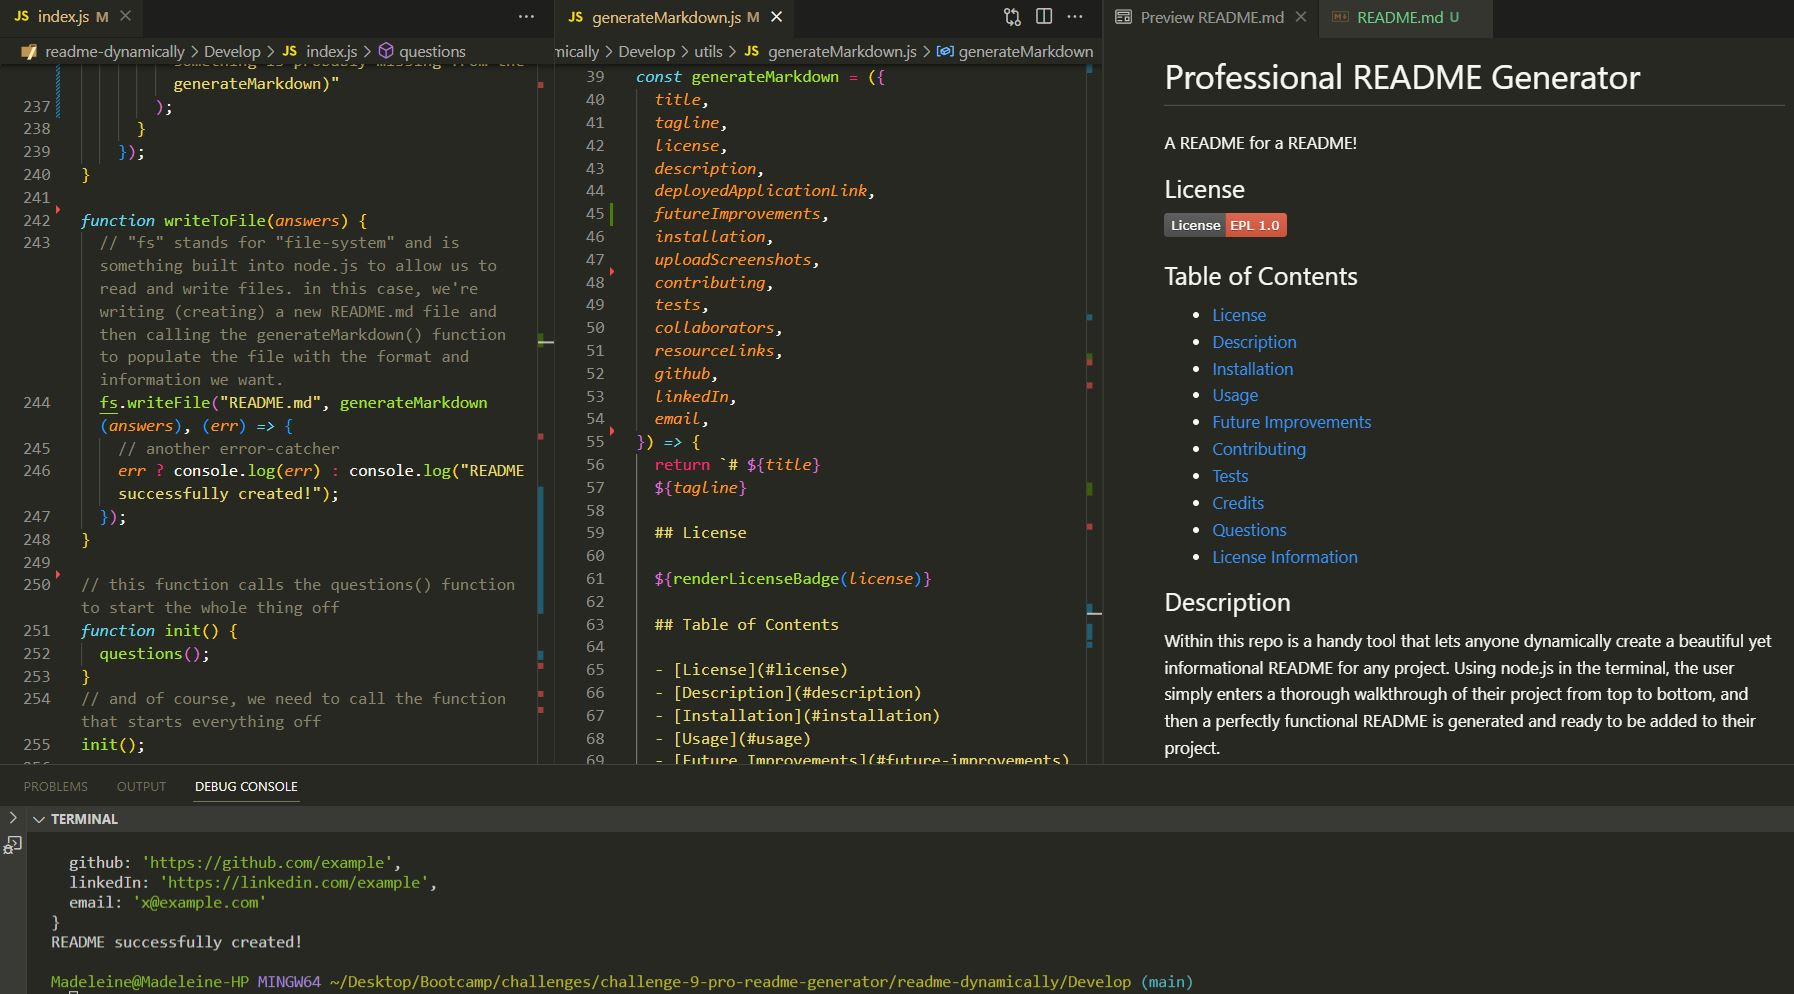
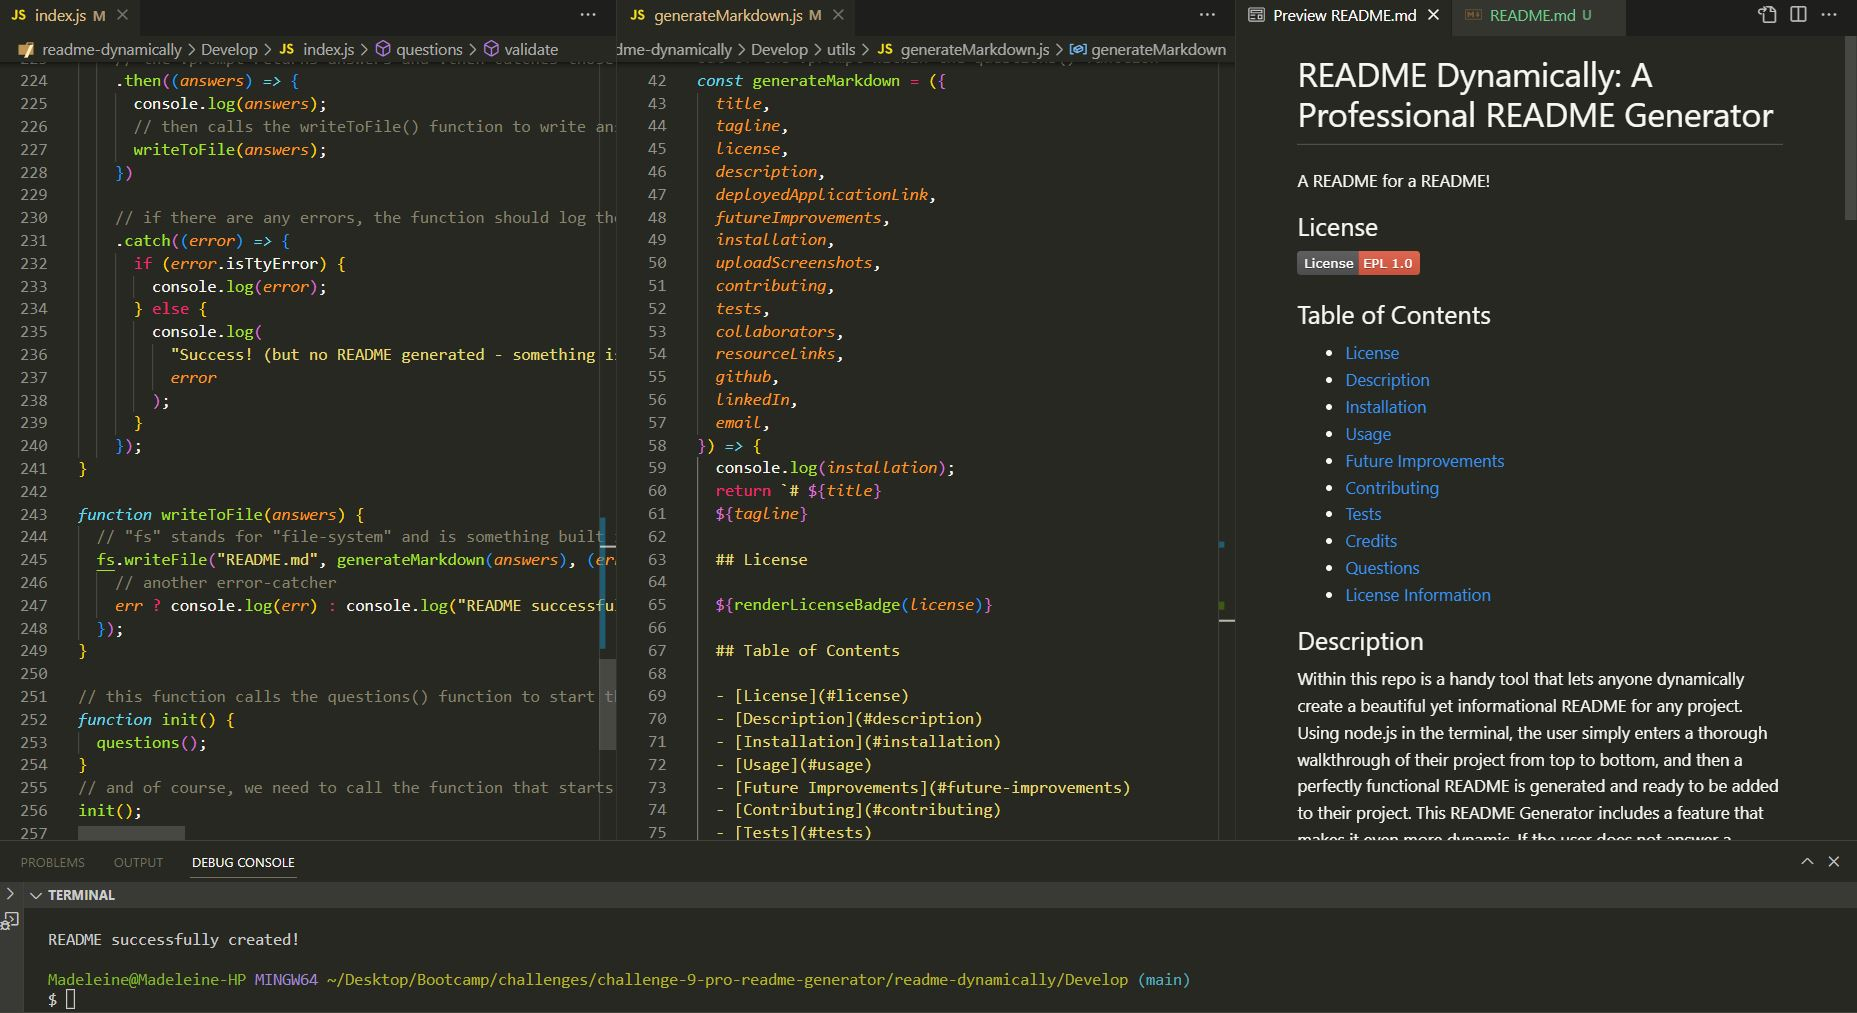
dynamic table of contents: applied the same dynamic feature that I applied to the section headings to the table of contents - when a user does not enter an answer to a question, that section and its corresponding table of contents link is omitted (for certain sections only)

diff --git a/Develop/index.js b/Develop/index.js
@@ -168,55 +168,55 @@ function questions() {
         name: "resourceLinks",
       },
       // returns links to resources or tutorials in README
-      // {
-      //   type: "input",
-      //   message:
-      //     "What is your Github URL? Paste it here. (Be sure to include the URL's scheme and subdomain as well as domain (https://github.com/)",
-      //   name: "github",
-      //   validate: function (github) {
-      //     // Regex validation
-      //     if (/^(ftp|http|https):\/\/[^ "]+$/.test(github) === true) {
-      //       return /^(ftp|http|https):\/\/[^ "]+$/.test(github);
-      //     } else {
-      //       return console.log(" Please enter a valid Github URL.");
-      //     }
-      //   },
-      // },
-      // // validates the user entered a Github URL, then returns the user's Github URL in README
-      // {
-      //   type: "input",
-      //   message:
-      //     "What is your LinkedIn URL? Paste it here. (Be sure to include the URL's scheme and subdomain as well as domain (https://linkedin.com/)",
-      //   name: "linkedIn",
-      //   validate: function (linkedIn) {
-      //     // Regex validation
-      //     if (/^(ftp|http|https):\/\/[^ "]+$/.test(linkedIn) === true) {
-      //       return /^(ftp|http|https):\/\/[^ "]+$/.test(linkedIn);
-      //     } else {
-      //       return console.log(" Please enter a valid LinkedIn URL.");
-      //     }
-      //   },
-      // },
-      // // validates the user entered a LinkedIn URL, then returns the user's linkedin URL in README
-      // {
-      //   type: "input",
-      //   message: "What is your email?",
-      //   name: "email",
-      //   validate: function (email) {
-      //     // Regex validation
-      //     if (
-      //       /^(([^<>()\[\]\.,;:\s@\"]+(\.[^<>()\[\]\.,;:\s@\"]+)*)|(\".+\"))@(([^<>()\.,;\s@\"]+\.{0,1})+([^<>()\.,;:\s@\"]{2,}|[\d\.]+))$/.test(
-      //         email
-      //       ) === true
-      //     ) {
-      //       return /^(([^<>()\[\]\.,;:\s@\"]+(\.[^<>()\[\]\.,;:\s@\"]+)*)|(\".+\"))@(([^<>()\.,;\s@\"]+\.{0,1})+([^<>()\.,;:\s@\"]{2,}|[\d\.]+))$/.test(
-      //         email
-      //       );
-      //     } else {
-      //       return console.log(" Please enter a valid email.");
-      //     }
-      //   },
-      // },
+      {
+        type: "input",
+        message:
+          "What is your Github URL? Paste it here. (Be sure to include the URL's scheme and subdomain as well as domain (https://github.com/)",
+        name: "github",
+        validate: function (github) {
+          // Regex validation
+          if (/^(ftp|http|https):\/\/[^ "]+$/.test(github) === true) {
+            return /^(ftp|http|https):\/\/[^ "]+$/.test(github);
+          } else {
+            return console.log(" Please enter a valid Github URL.");
+          }
+        },
+      },
+      // validates the user entered a Github URL, then returns the user's Github URL in README
+      {
+        type: "input",
+        message:
+          "What is your LinkedIn URL? Paste it here. (Be sure to include the URL's scheme and subdomain as well as domain (https://linkedin.com/)",
+        name: "linkedIn",
+        validate: function (linkedIn) {
+          // Regex validation
+          if (/^(ftp|http|https):\/\/[^ "]+$/.test(linkedIn) === true) {
+            return /^(ftp|http|https):\/\/[^ "]+$/.test(linkedIn);
+          } else {
+            return console.log(" Please enter a valid LinkedIn URL.");
+          }
+        },
+      },
+      // validates the user entered a LinkedIn URL, then returns the user's linkedin URL in README
+      {
+        type: "input",
+        message: "What is your email?",
+        name: "email",
+        validate: function (email) {
+          // Regex validation
+          if (
+            /^(([^<>()\[\]\.,;:\s@\"]+(\.[^<>()\[\]\.,;:\s@\"]+)*)|(\".+\"))@(([^<>()\.,;\s@\"]+\.{0,1})+([^<>()\.,;:\s@\"]{2,}|[\d\.]+))$/.test(
+              email
+            ) === true
+          ) {
+            return /^(([^<>()\[\]\.,;:\s@\"]+(\.[^<>()\[\]\.,;:\s@\"]+)*)|(\".+\"))@(([^<>()\.,;\s@\"]+\.{0,1})+([^<>()\.,;:\s@\"]{2,}|[\d\.]+))$/.test(
+              email
+            );
+          } else {
+            return console.log(" Please enter a valid email.");
+          }
+        },
+      },
       // validates the user entered an email, then returns the user's email in README
     ])
 

diff --git a/Develop/utils/generateMarkdown.js b/Develop/utils/generateMarkdown.js
@@ -39,6 +39,7 @@ function renderLicenseBadge(license) {
 
 // this function creates the README by populating all data from the inquirer.prompt questions into a long backticked section
 // used object desctructuring to pull the properties out of the .prompt within the questions() function
+// within this function, if the user doesn not enter an answer to some of the sections, that section heading will not be included in the final README (ternary operator)
 const generateMarkdown = ({
   title,
   tagline,
@@ -68,12 +69,23 @@ const generateMarkdown = ({
   
   - [License](#license)
   - [Description](#description)
-  - [Installation](#installation)
+  ${
+    deployedApplicationLink.length > 0
+      ? "- [Deployed Application](#deployed-application)"
+      : ""
+  }
+  ${
+    futureImprovements.length > 0
+      ? "- [Future Improvements](#future-improvements)"
+      : ""
+  }
+  ${installation.length > 0 ? "- [Installation](#installation)" : ""}
   - [Usage](#usage)
-  - [Future Improvements](#future-improvements)
-  - [Contributing](#contributing)
-  - [Tests](#tests)
-  - [Credits](#credits)
+  ${contributing.length > 0 ? "- [Contributing](#contributing)" : ""}
+  ${tests.length > 0 ? "- [Tests](#tests)" : ""}
+  ${
+    collaborators.length > 0 && resourceLinks > 0 ? "- [Credits](#credits)" : ""
+  }
   - [Questions](#questions)
   - [License Information](#license-information)
 
@@ -95,16 +107,10 @@ const generateMarkdown = ({
 
   ${installation.length > 0 ? "## Installation" + "\n     " + installation : ""}
  
-  ${
-    uploadScreenshots.length > 0
-      ? "## Usage" +
-        "\n     " +
-        "Below are screenshots of the " +
-        title +
-        "\n     " +
-        uploadScreenshots
-      : ""
-  }
+  ## Usage
+
+  Below are screenshots of the ${title}:
+  ${uploadScreenshots}
 
   ${
     contributing.length > 0
@@ -117,13 +123,17 @@ const generateMarkdown = ({
   
   ${tests.length > 0 ? "## Tests" + "\n     " + tests : ""}
   
-  ## Credits
+  ${
+    collaborators.length > 0
+      ? "## Credits" + "\n     " + "Collaborators: " + collaborators
+      : ""
+  }
   
-  ${collaborators}
-  
-  List of resources used:
-  
-  ${resourceLinks}
+  ${
+    resourceLinks.length > 0
+      ? "List of resources used: " + "\n     " + resourceLinks
+      : ""
+  }
   
   ## Questions
 
